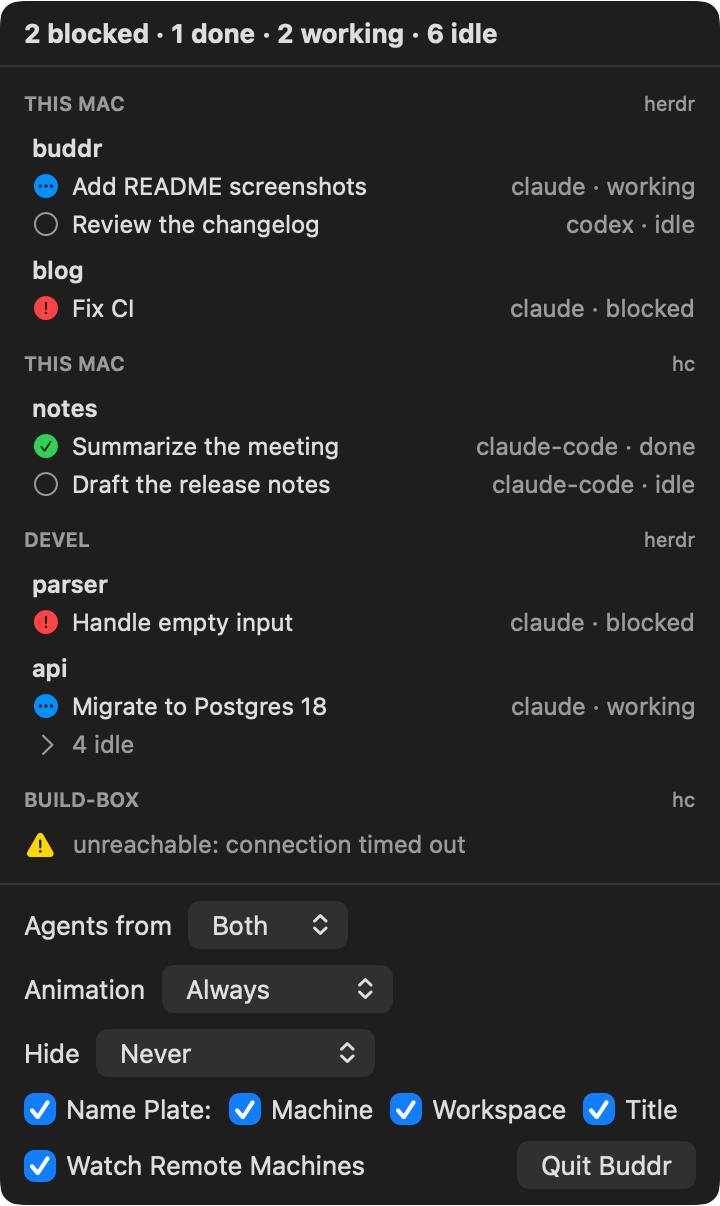
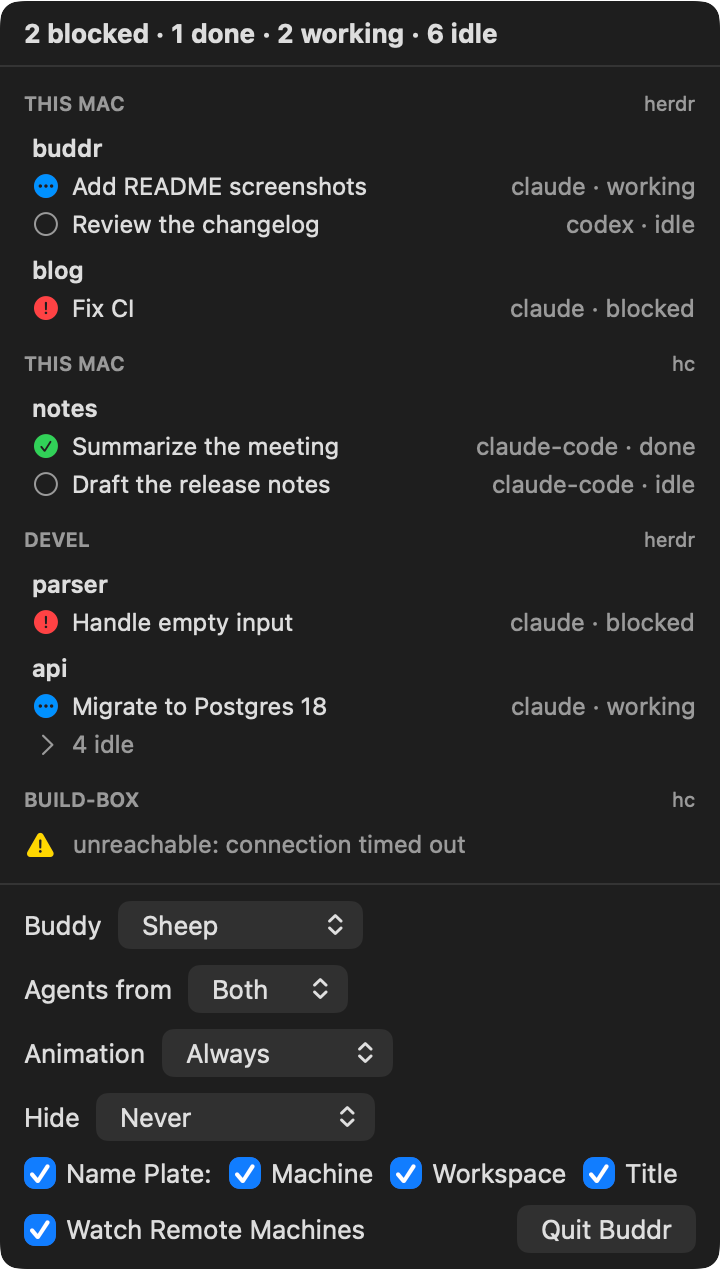
Make the black sheep a buddy of its own, in every build
The sheep stays the default. The menu bar list now shows the "Buddy" pop-up; README describes it.

diff --git a/Buddr/Sprite/Buddy.swift b/Buddr/Sprite/Buddy.swift
@@ -81,6 +81,40 @@ struct Buddy: Sendable {
         let rows: [String]
     }
 
+    /// The same buddy under another name, with `colors` replaced in the layers showing one of `sprites` (the others,
+    /// such as effects, keep their colors) and in the palette.
+    func recolored(id: BuddyID, name: String, colors: [PixelColor: PixelColor], in sprites: Set<PixelSprite>) -> Buddy {
+        let recolor = { (clip: AnimationClip) in Self.recolored(clip, colors: colors, in: sprites) }
+        return Buddy(
+            id: id, name: name,
+            clips: Clips(
+                idleRest: recolor(clips.idleRest), idleBlink: recolor(clips.idleBlink),
+                idleLook: recolor(clips.idleLook), sleeping: recolor(clips.sleeping), working: recolor(clips.working),
+                blocked: recolor(clips.blocked), doneJump: recolor(clips.doneJump), doneHold: recolor(clips.doneHold),
+                unknown: recolor(clips.unknown), idleStill: recolor(clips.idleStill),
+                sleepingStill: recolor(clips.sleepingStill), workingStill: recolor(clips.workingStill),
+                blockedStill: recolor(clips.blockedStill), doneStill: recolor(clips.doneStill),
+                unknownStill: recolor(clips.unknownStill)),
+            escape: Escape(
+                startle: recolor(escape.startle), yawn: recolor(escape.yawn), turn: recolor(escape.turn),
+                run: recolor(escape.run), walk: recolor(escape.walk), arrive: recolor(escape.arrive)),
+            petted: recolor(petted), grids: grids, palette: palette.mapValues { colors[$0] ?? $0 })
+    }
+
+    private static func recolored(
+        _ clip: AnimationClip, colors: [PixelColor: PixelColor], in sprites: Set<PixelSprite>
+    ) -> AnimationClip {
+        AnimationClip(
+            clip.frames.map { frame in
+                let layers = frame.sprite.layers.map { layer in
+                    sprites.contains(layer.sprite)
+                        ? SpriteLayer(sprite: layer.sprite.recolored(colors), x: layer.x, y: layer.y) : layer
+                }
+                return AnimationFrame(
+                    sprite: SpriteFrame(layers: layers, opacity: frame.sprite.opacity), duration: frame.duration)
+            })
+    }
+
     /// Every clip with a name: the state machine's, the escape's and the petting reaction.
     var allClips: [(name: String, clip: AnimationClip)] {
         ClipID.allCases.map { ("\($0)", clips[$0]) } + [
@@ -98,17 +132,12 @@ struct Buddy: Sendable {
 /// Every buddy there is, in the order of the menu.
 enum BuddyID: String, CaseIterable, Sendable {
     case sheep
-    #if DEBUG
-        /// The sheep with dark wool, to try out choosing buddies before there is a second one.
-        case blackSheep
-    #endif
+    case blackSheep
 
     var buddy: Buddy {
         switch self {
         case .sheep: SheepSprites.buddy
-        #if DEBUG
-            case .blackSheep: SheepSprites.blackSheep
-        #endif
+        case .blackSheep: BlackSheepSprites.buddy
         }
     }
 }

diff --git a/BuddrTests/Sprite/SheepSpritesTests.swift b/BuddrTests/Sprite/SheepSpritesTests.swift
@@ -20,4 +20,31 @@ struct SheepSpritesTests {
         #expect(Set(heads.map(\.width)).count == 1)
         #expect(Set(heads.map(\.height)).count == 1)
     }
+
+    /// Only the sheep itself is recolored; the effects and the timing stay.
+    @Test func blackSheepIsTheSheepWithItsFigureRecolored() {
+        let sheep = BuddyID.sheep.buddy
+        let blackSheep = BuddyID.blackSheep.buddy
+        #expect(blackSheep.allClips.map(\.name) == sheep.allClips.map(\.name))
+        var recolored = 0
+        for (sheepClip, blackClip) in zip(sheep.allClips.map(\.clip), blackSheep.allClips.map(\.clip)) {
+            #expect(blackClip.frames.map(\.duration) == sheepClip.frames.map(\.duration))
+            for (sheepFrame, blackFrame) in zip(sheepClip.frames, blackClip.frames) {
+                #expect(blackFrame.sprite.opacity == sheepFrame.sprite.opacity)
+                #expect(blackFrame.sprite.layers.count == sheepFrame.sprite.layers.count)
+                for (sheepLayer, blackLayer) in zip(sheepFrame.sprite.layers, blackFrame.sprite.layers) {
+                    #expect(blackLayer.x == sheepLayer.x && blackLayer.y == sheepLayer.y)
+                    if SheepSprites.figure.contains(sheepLayer.sprite) {
+                        #expect(blackLayer.sprite != sheepLayer.sprite)
+                        recolored += 1
+                    } else {
+                        #expect(blackLayer.sprite == sheepLayer.sprite)
+                    }
+                }
+            }
+        }
+        #expect(recolored > 0)
+        #expect(blackSheep.palette["W"] != sheep.palette["W"])
+        #expect(blackSheep.palette["O"] == sheep.palette["O"])
+    }
 }

diff --git a/Buddr/Sprite/BlackSheepSprites.swift b/Buddr/Sprite/BlackSheepSprites.swift
@@ -1,0 +1,14 @@
+// The black sheep: the sheep (`SheepSprites`) with dark wool and a light face and legs. Only the sheep itself is
+// recolored; its effects ("!", the ✔ bubble, hearts, dust, flecks) keep their colors. It has no grids of its own, so
+// redrawing the sheep redraws it too.
+
+enum BlackSheepSprites {
+    static let buddy = SheepSprites.buddy.recolored(
+        id: .blackSheep, name: "Black Sheep",
+        colors: [
+            SheepSprites.palette["W"]!: PixelColor(red: 0x4A, green: 0x44, blue: 0x52),  // wool
+            SheepSprites.palette["w"]!: PixelColor(red: 0x3B, green: 0x36, blue: 0x42),  // wool shade
+            SheepSprites.palette["F"]!: PixelColor(red: 0x9C, green: 0x8F, blue: 0x9F),  // face and legs
+        ],
+        in: SheepSprites.figure)
+}

diff --git a/BuddrTests/Sprite/PixelSpriteTests.swift b/BuddrTests/Sprite/PixelSpriteTests.swift
@@ -51,6 +51,12 @@ struct PixelSpriteTests {
         #expect(sprite.mirrored() == PixelSprite(rows: ["..R", ".RR"], palette: palette))
     }
 
+    @Test func recoloringReplacesOnlyTheGivenColors() {
+        let blue = PixelColor(red: 0, green: 0, blue: 255)
+        let sprite = PixelSprite(rows: ["R.B"], palette: ["R": red, "B": blue])
+        #expect(sprite.recolored([red: black]) == PixelSprite(rows: ["K.B"], palette: ["K": black, "B": blue]))
+    }
+
     @Test func mirroredFrameKeepsLayersInsideTheCanvas() {
         let sprite = PixelSprite(rows: ["R."], palette: palette)
         let frame = SpriteFrame(layers: [SpriteLayer(sprite: sprite, x: 1, y: 3)], opacity: 0.5)

diff --git a/Buddr/Sprite/PixelSprite.swift b/Buddr/Sprite/PixelSprite.swift
@@ -59,6 +59,11 @@ struct PixelSprite: Hashable, Sendable {
         return PixelSprite(width: width, height: height, pixels: flipped)
     }
 
+    /// Returns the sprite with every color that is a key of `colors` replaced by its value.
+    func recolored(_ colors: [PixelColor: PixelColor]) -> PixelSprite {
+        PixelSprite(width: width, height: height, pixels: pixels.map { $0.map { colors[$0] ?? $0 } })
+    }
+
     /// Returns a sprite one pixel larger on every side, with an outline around all opaque pixels
     /// (including diagonal neighbours).
     func outlined(with outline: PixelColor) -> PixelSprite {

diff --git a/Buddr/Sprite/SheepSprites.swift b/Buddr/Sprite/SheepSprites.swift
@@ -264,6 +264,12 @@ enum SheepSprites {
         static let yawn = sprite(Grid.headYawn)
     }
 
+    /// The sheep itself without its effects: every body and head.
+    static let figure: Set<PixelSprite> = [
+        Body.stand, Body.trotA, Body.trotB, Body.gallop, Body.jump, Body.lying, Head.normal, Head.blink, Head.look,
+        Head.bleat, Head.content, Head.yawn,
+    ]
+
     enum Effect {
         static let checkBubble = sprite(Grid.checkBubble)
         static let exclamation = sprite(Grid.exclamation).outlined(with: outline)

diff --git a/CLAUDE.md b/CLAUDE.md
@@ -59,8 +59,8 @@ Buddr/
               (pure: plate scale, reserved room, placement)
   Sprite/     PixelSprite / SpriteFrame models, SpriteCanvas renderer, Buddy (a character's clips) + BuddyID (every
               buddy there is), BuddyCanvas (shared canvas), SheepSprites (all of the sheep's data: palette, grids,
-              frame composition, clip timing, the menu bar icon), NamePlateSprite (the plate's look), PixelFont
-              (glyphs, marks, truncation)
+              frame composition, clip timing, the menu bar icon), BlackSheepSprites (the sheep recolored),
+              NamePlateSprite (the plate's look), PixelFont (glyphs, marks, truncation)
   Animation/  AnimationClip / ClipID, AnimationMode, BuddyAnimator (pure state machine), BuddyAnimationDriver
               (@Observable timer that plays it), SplitMix64
   Herdr/      HerdrLocator (binary lookup), ProcessRunner (subprocess with timeout) + OneShotSignal, HerdrClient
@@ -76,8 +76,7 @@ Buddr/
               (pure: agents newly blocked / done, which one the plate names) + NamePlate (the plate's parts)
   Menu/       SnapshotStore (@Observable latest snapshot), AgentListView (content of the menu bar window)
   Debug/      Debug builds only (`#if DEBUG`): DebugControls (play any clip, send the buddy away, override the
-              status, a long name plate), DebugSection (its orange box in the menu bar list), BlackSheep (a second
-              buddy for trying out the choice)
+              status, a long name plate), DebugSection (its orange box in the menu bar list)
 BuddrTests/   Swift Testing tests, mirroring the app folders
   Fixtures/   herdr CLI JSON outputs, herdr-core API answers (`core-*`)
   Support/    fixture loader, FakeCommandRunner, FakeCoreTransport, ManualSleeper, ScriptedFetch + SnapshotRecorder,
@@ -122,8 +121,8 @@ CHANGELOG.md  one section per released version
   `BuddyPanel.clickTolerance` points (`onClick`); it pets the buddy (see below). After a drag (the button is released)
   the panel is moved back into the `visibleFrame` of its screen, so it can't be dragged out of sight. Menu bar: SwiftUI
   `MenuBarExtra` in `.window` style (a popover; the `.menu` style can't lay out columns or color the rows) with the
-  agent list, the settings ("Buddy" while there is more than one, "Agents from", "Animation" and "Hide" pop-ups, "Name Plate" checkboxes, "Watch Remote
-  Machines") and "Quit Buddr". A segmented "Off | On Change | Always" control plus the duration doesn't fit the 360 pt
+  agent list, the settings ("Buddy" while there is more than one, "Agents from", "Animation" and "Hide" pop-ups,
+  "Name Plate" checkboxes, "Watch Remote Machines") and "Quit Buddr". A segmented "Off | On Change | Always" control plus the duration doesn't fit the 360 pt
   width. A separate Settings window is not worth it until there are more settings (an `LSUIElement` app has to activate
   itself to show one).
 - Agent list (`AgentListView`, grouping in `AgentOverview`): a summary ("1 blocked · 2 working"), then one section per
@@ -180,8 +179,7 @@ CHANGELOG.md  one section per released version
   plays (`endScript()` + `interject`) or looped until "Stop Clip", optionally mirrored; "Run Away" / "Wander Off" /
   "Come Back" (`BuddyEscape.Reason.debug(startled:)`); a status override that replaces the herdr status for the
   animation, hiding and the name plate (not for the list) – overridden to `blocked` / `done` without an agent in it,
-  the plate shows `debug · blocked`; and "Long Name", a long sample on the plate (shortening, screen edges). A second
-  buddy, the black sheep (`BuddyID.blackSheep`, the sheep recolored), makes the "Buddy" setting show up. Release
+  the plate shows `debug · blocked`; and "Long Name", a long sample on the plate (shortening, screen edges). Release
   builds contain none of it; check with `CONFIG=Release make build` after touching it.
 - Out of scope: sounds and notifications, focusing / replying to agents, one character per agent, sources other than
   herdr and herdr-core.
@@ -291,20 +289,21 @@ programs in terminals that outlive their clients; herdr-app shows them. Agents r
 ## Buddies
 
 The character on the screen is a buddy (`Buddy`): its name and every clip – the state machine's (`Buddy.Clips`, one
-per `ClipID`), the escape's (`Buddy.Escape`) and the petting reaction. The sheep is the only one so far.
+per `ClipID`), the escape's (`Buddy.Escape`) and the petting reaction. There are two so far: the sheep (the default)
+and the black sheep.
 
-- Each buddy's pixels live in a file of its own (`SheepSprites.swift`), which builds its `Buddy`. Shared by every
+- Each buddy's pixels live in a file of its own (`SheepSprites.swift`), which builds its `Buddy`. A buddy can also be
+  another one recolored (`Buddy.recolored`): the black sheep (`BlackSheepSprites.swift`) is the sheep's figure
+  (`SheepSprites.figure`, every body and head) with dark wool and a light face and legs, its effects unchanged, so
+  redrawing the sheep redraws it too. Shared by every
   buddy: the canvas (`BuddyCanvas`, 22 × 20 px, so a switch never changes the panel size, the saved position, the room
   for the plate or the escape route), the name plate (`NamePlateSprite`) and the menu bar icon (Buddr's own, the
   sheep).
-- `BuddyID` lists every buddy in the order of the menu; `BuddyID.buddy` gives its `Buddy`. Debug builds add the black
-  sheep (`BuddyID.blackSheep`, `Debug/BlackSheep.swift`: the sheep's body and head recolored), so the choice can be
-  tried before there is a second real buddy.
+- `BuddyID` lists every buddy in the order of the menu; `BuddyID.buddy` gives its `Buddy`.
 - Chosen in the menu bar ("Buddy": every buddy by name, then "Take Turns" with "every 15 / 30 / 60 min";
   `Preferences.buddyChoice`, `BuddyChoice`, key `buddy`: a `BuddyID` or `takeTurns`, default `sheep`; a saved buddy
   that isn't there falls back to the sheep; `Preferences.buddyTurnMinutes`, key `buddyTurnMinutes`, default 30). The
-  pop-up shows only while there is more than one buddy, so Release builds don't show it yet. The menu bar icon stays
-  the sheep.
+  pop-up shows only while there is more than one buddy. The menu bar icon stays the sheep.
 - Taking turns (`BuddyTurns`): after every turn (real time) the next buddy in the order of `BuddyID` comes, the first
   after the last. A turn ends only while no agent waits for the user (calm in `HideMode.unlessNeeded`): a change of
   buddies must never cover a `blocked` or `done` buddy, so an ended turn waits for calm. Choosing "Take Turns" or

diff --git a/README.md b/README.md
@@ -43,6 +43,8 @@ covers its display, the sheep runs off the screen and comes back when the app is
 
 The sheep in the menu bar opens a list of all agents, grouped by machine and workspace, followed by the settings:
 
+- **Buddy** – the sheep (the default) or the black sheep, or both taking turns every 15 to 60 minutes; a turn ends
+  only while no agent needs you. The old buddy walks off the screen and the new one runs in.
 - **Agents from** – herdr, hc or both (the default). A chosen one that isn't installed or running shows up with a ⚠.
 - **Animation** – always, only for a while after a change (5 s to 1 min), or off: a still picture of the state.
 - **Hide** – never (the default), when all agents are idle, or unless one needs you, after 1 to 30 minutes of it. The
